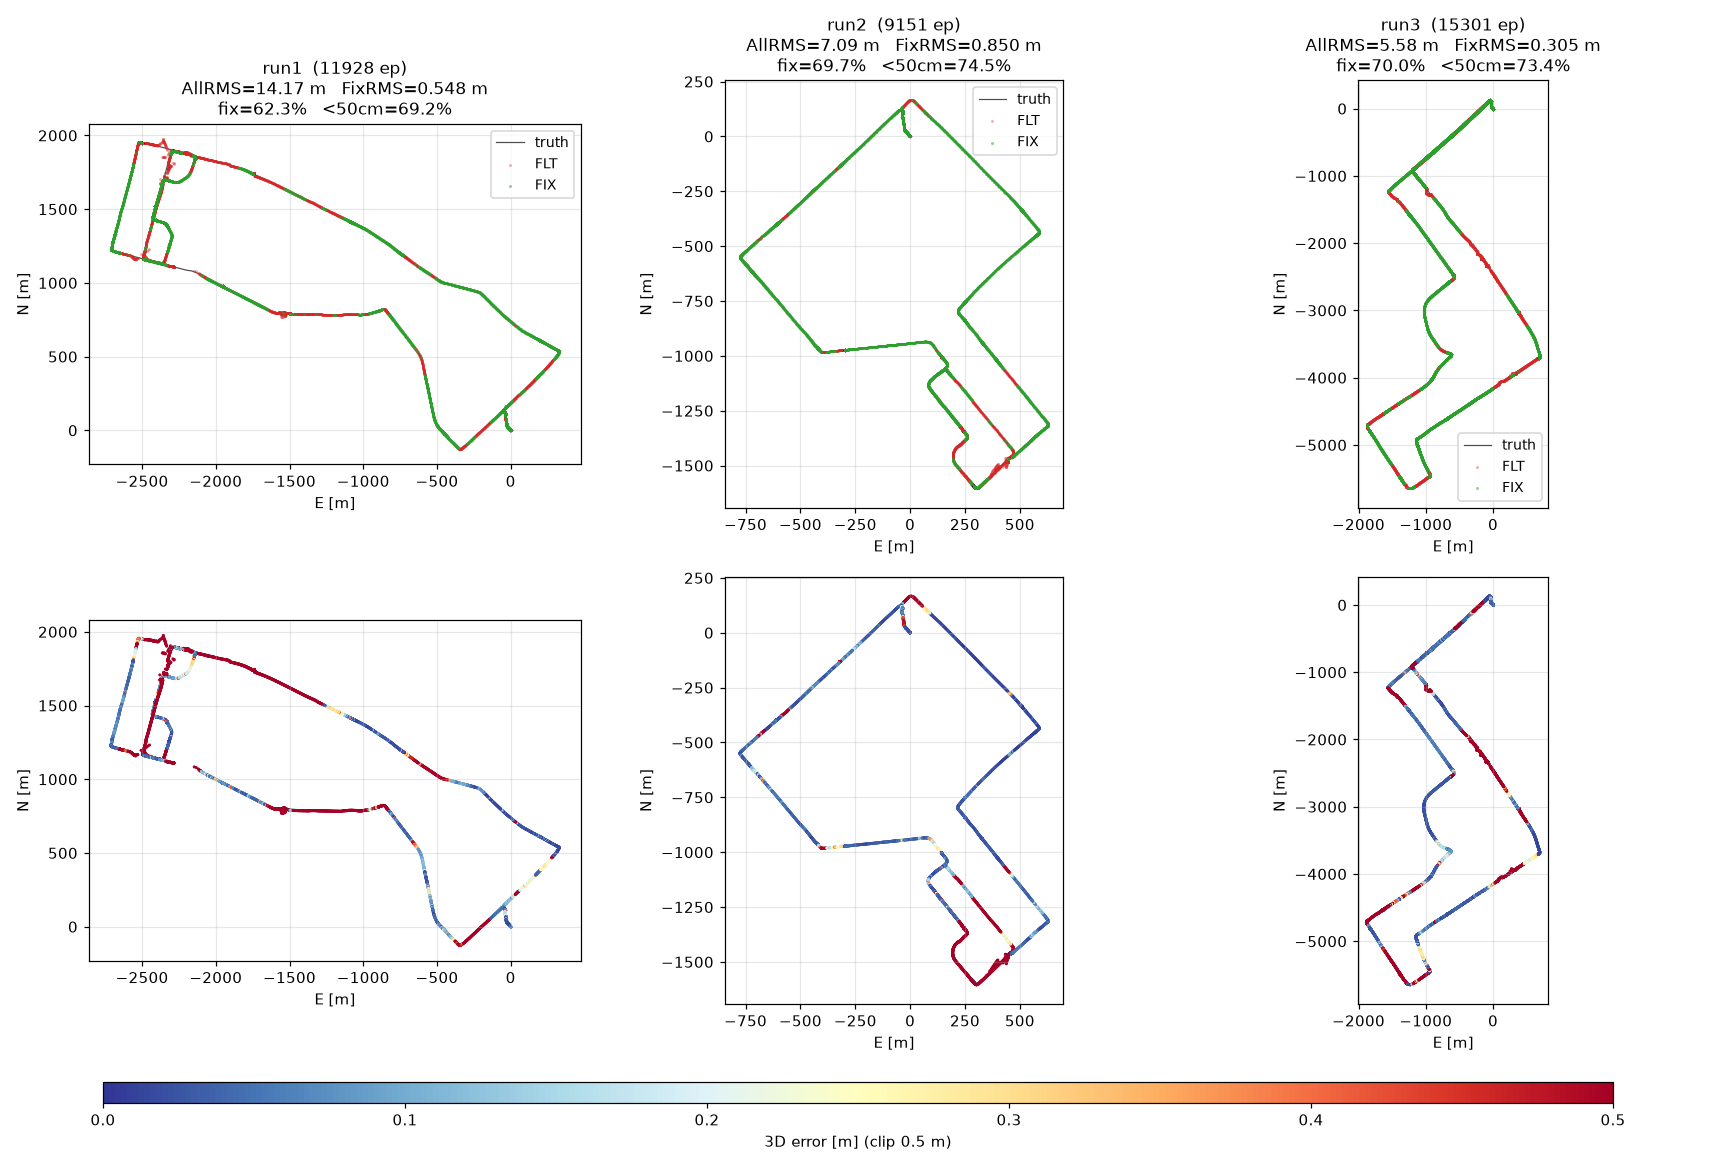
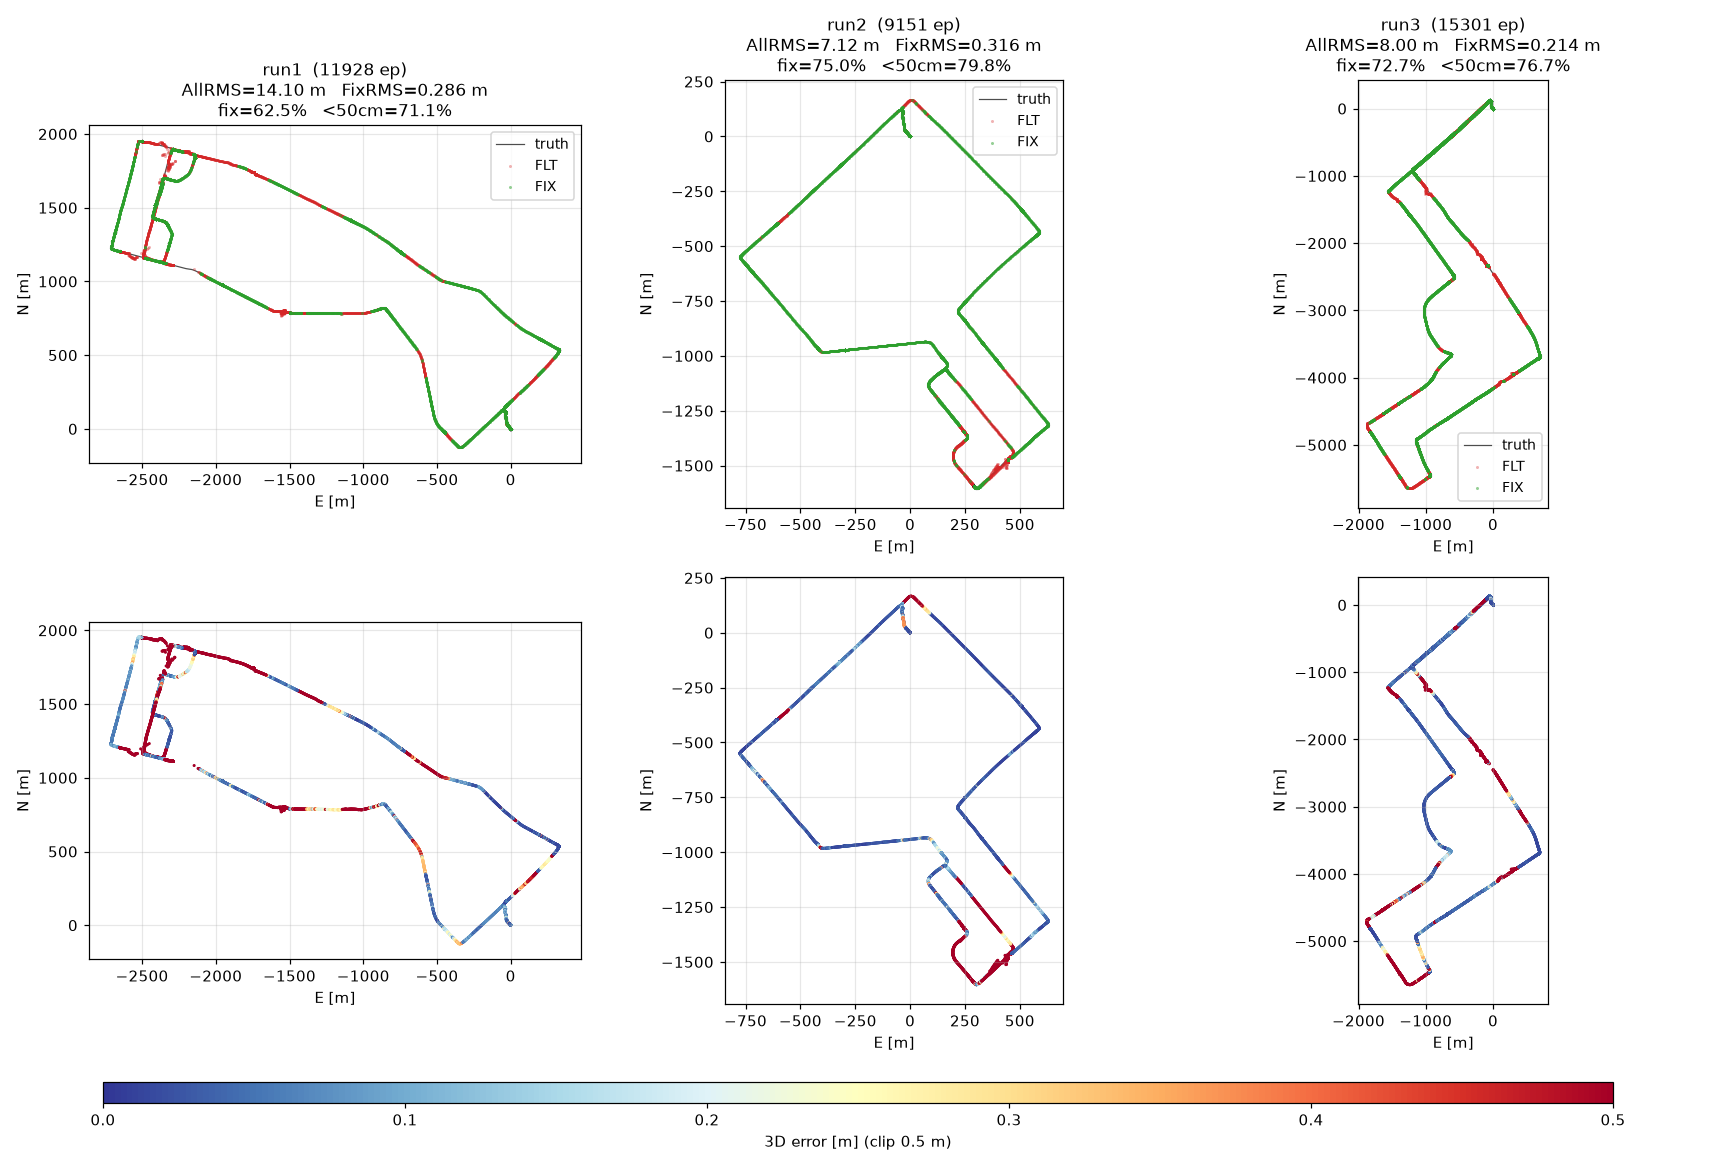
Results remeasured on the final revision pair; pin at the merge commit
Six-dataset table and both figures from this branch + the merged
cssrlib tip. FixRMS improves on every dataset over the published
numbers (nagoya run1 1.12 -> 0.13 m); the MSF row leaves the table.

Claude-Session: https://claude.ai/code/session_01XAGzK9hUVcM2YwuWPcyGrg

diff --git a/README.md b/README.md
@@ -16,9 +16,9 @@ and tunnels.
 - **RTK in the graph** — DD pseudorange + DD carrier-phase factors on a
   GTSAM `IncrementalFixedLagSmoother`, ambiguities as float states,
   clock-free seeding (SD phase − SD code)
-- **Integer ambiguity resolution** — LAMBDA with ratio test, exclusion
-  retry, partial AR, fix-and-hold, and geometry/residual acceptance
-  gates
+- **Integer ambiguity resolution** — LAMBDA with a dimension-adaptive
+  ratio test, ranked subset retry, fix-and-hold, and
+  geometry/residual acceptance gates
 - **Tight IMU coupling** — 100 Hz `CombinedImuFactor` preintegration;
   NHC and ZUPT vehicle constraints (C++ factors with exact Jacobians)
 - **Velocity through outages** — between-satellite single-differenced
@@ -38,18 +38,16 @@ and tunnels.
 Everything is measured on open data with all-default settings, and is
 reproducible end to end — three full urban-Tokyo drives and three
 urban-Nagoya drives
-([PPC-Dataset](https://github.com/taroz/PPC-Dataset)), plus the
-GREAT-MSF w2 window (Wuhan):
+([PPC-Dataset](https://github.com/taroz/PPC-Dataset)):
 
 | run         | length    | AllRMS  | median  | FixRMS  | fix %  | <50 cm |
 |-------------|-----------|---------|---------|---------|--------|--------|
-| tokyo run1  | 11928 ep  | 14.17 m | 0.110 m | 0.55 m  | 62.3 % | 69.2 % |
-| tokyo run2  |  9151 ep  |  7.09 m | 0.053 m | 0.85 m  | 69.7 % | 74.5 % |
-| tokyo run3  | 15301 ep  |  5.58 m | 0.062 m | 0.31 m  | 70.0 % | 73.4 % |
-| nagoya run1 |  7602 ep  | 16.15 m | 0.146 m | 1.12 m  | 61.1 % | 64.3 % |
-| nagoya run2 |  9451 ep  | 20.68 m | 0.319 m | 0.70 m  | 49.4 % | 51.6 % |
-| nagoya run3 |  5201 ep  | 19.72 m | 0.578 m | 1.89 m  | 47.0 % | 48.0 % |
-| MSF w2      |  1041 ep  |  0.17 m | 0.141 m | 0.14 m  | 99.0 % | 99.5 % |
+| tokyo run1  | 11928 ep  | 14.10 m | 0.087 m | 0.29 m  | 62.5 % | 71.1 % |
+| tokyo run2  |  9151 ep  |  7.12 m | 0.041 m | 0.32 m  | 75.0 % | 79.8 % |
+| tokyo run3  | 15301 ep  |  8.00 m | 0.049 m | 0.21 m  | 72.7 % | 76.7 % |
+| nagoya run1 |  7602 ep  | 14.95 m | 0.141 m | 0.13 m  | 56.9 % | 68.5 % |
+| nagoya run2 |  9451 ep  | 27.07 m | 0.243 m | 0.36 m  | 49.7 % | 54.0 % |
+| nagoya run3 |  5201 ep  | 19.15 m | 0.799 m | 0.88 m  | 43.1 % | 46.7 % |
 
 tokyo run1 is the hardest route — a deep canyon plus a full tunnel
 blackout, bridged by IMU + SD Doppler dead reckoning.
@@ -58,15 +56,16 @@ blackout, bridged by IMU + SD Doppler dead reckoning.
 
 The defaults admit each satellite on the bands it actually transmits
 (`SAT_BAND_PLAN=1` — a pre-IIF GPS without L5 or a B1I-only BDS-2 is
-judged on what it broadcasts instead of being discarded wholesale) and
+judged on what it broadcasts instead of being discarded wholesale),
 run LAMBDA's ratio test against the demo5/FFRT dimension-adaptive
 threshold (`AR_THRESAR_MIN=1.5`, `AR_THRESAR_MAX=3.0`) instead of a
-fixed 2.0. The two were adopted together after being measured across
-all seven datasets above — together they are the best all-round
-configuration on five of the seven, and on tokyo run3 they beat the
-previous defaults on every metric at once (fix 65.5 → 70.0 %, AllRMS
-11.05 → 5.58 m, FixRMS 0.573 → 0.305 m). Revert to the previous
-behaviour with `SAT_BAND_PLAN=0 AR_THRESAR_MIN=0 AR_THRESAR_MAX=0`.
+fixed 2.0, and recover declined fixes with the ranked subset retry
+alone — the demo5 single-satellite exclusion retry was measured
+per-mechanism across every dataset and deleted (its recovered fixes
+degraded FixRMS everywhere it fired). Each choice was adopted from
+per-dataset A/B measurement on this exact revision pair. Revert with
+`SAT_BAND_PLAN=0 AR_THRESAR_MIN=0 AR_THRESAR_MAX=0
+SUBSET_AR_ENABLE=0`.
 
 ## Quick start
 
@@ -85,7 +84,7 @@ pip install "$(ls wheels/*.whl | sort | tail -1)"   # newest, in case the rollin
 # cssrlib DD-only RTK core (pinned; this revision carries the
 # nav.sat_band_plan admission policy the defaults use and the satposs
 # signal-flight-time fix the results below depend on):
-pip install "cssrlib @ git+https://github.com/inuex35/cssrlib.git@baed85416389a8d55d339cf44fa538522b539be8"
+pip install "cssrlib @ git+https://github.com/inuex35/cssrlib.git@5b3711a73f6d8eb3a4b5429d7cf31783cb41927d"
 ```
 
 Run (datasets not included; lay out PPC-Dataset under
@@ -105,7 +104,7 @@ Packages are the roles:
 |---|---|
 | `pipeline/` | the epoch flow: `imu_prediction` → `quality_gate` → `solve` (`measurement_factors` / `update_smoother` / `fix_ambiguities` / `check_postfit`) → `validate_fix` → `report` |
 | `factors/` | measurement → GTSAM factor builders, one file per family |
-| `ar/` | LAMBDA core, exclusion retry, subset search, fix-and-hold |
+| `ar/` | LAMBDA core, ranked subset retry, fix-and-hold |
 | `integrity/` | slip detection, sanity ladder, outage recovery |
 | `state/` | records (`SatState`, `EpochData`) and the stage I/O contract |
 
